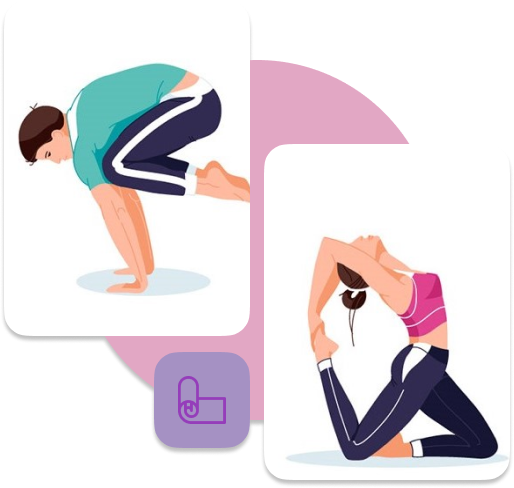
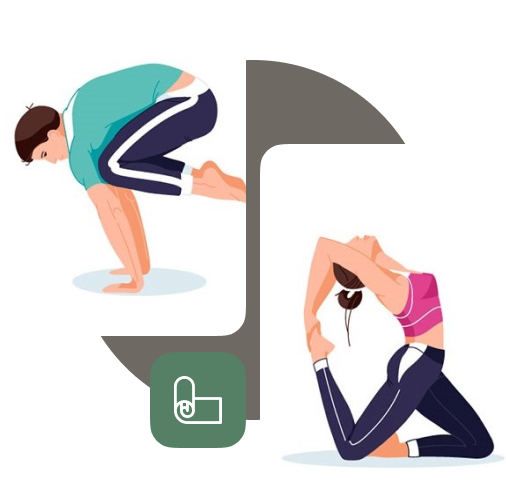
edited 4pm

diff --git a/index.html b/index.html
@@ -29,37 +29,40 @@
       <a href="" class="btn__secondary">CLASSES</a>
     </header>
 
-    <section id="hero">
-      <div class="container">
-        <div class="row">
-          <h4 class="h4">YOGA CLASSES</h4>
-          <h1 class="h1">Clear Mind & Refresh Your Body</h1>
-          <a href="" class="btn__yellow">VIEW CLASSES</a>
-        </div>
+      <section id="hero">
+        <div class="container d-flex">
+          <div class="row">
+            <h4 class="h4">YOGA CLASSES</h4>
+            <h1 class="h1">Clear Mind & Refresh Your Body</h1>
+            <a href="" class="btn__yellow">VIEW CLASSES</a>
+          </div>
+
+    </div>
+
         <div class="row">
           <div class="column column-lg-4 column-sm-12">
-            <div class="row hero__icon"><img src="./assets/img/hero_icon-1.png" alt="Healthy"></div>
+            <div class="row hero__icon icon"><img src="./assets/img/hero_icon-1.png" alt="Healthy"></div>
             <div class="row">Healthy</div>
             <div class="row">The sky</div>
           </div>
           <div class="column column-lg-4 column-sm-12">
-            <div class="row hero__icon"><img src="./assets/img/hero_icon-2.png" alt="Flexibility"></div>
+            <div class="row hero__icon icon"><img src="./assets/img/hero_icon-2.png" alt="Flexibility"></div>
             <div class="row">Flexibility</div>
             <div class="row">The sky</div>
           </div>
           <div class="column column-lg-4 column-sm-12">
-            <div class="row hero__icon"><img src="./assets/img/hero_icon-3.png" alt="Balance"></div>
+            <div class="row hero__icon icon"><img src="./assets/img/hero_icon-3.png" alt="Balance"></div>
             <div class="row">Balance</div>
             <div class="row">The sky</div>
           </div>
         </div>
       </div>
     </section>
-  </div>
+  
 
     <section id="about">
-      <div class="container"></div>
-      <div class="container">
+      <div class="container container-border">
+      <div class="container container-filled">
         <div class="row">
           <div class="column column-lg-6 column-sm-12"><img src="./assets/img/about_img-1.png" alt="about" class="about__img"></div>
           <div class="column column-lg-6 column-sm-12">
@@ -67,10 +70,11 @@
             <h2 class="h2">Get Perfect Body & Clear Your Mind</h2>
             <p class="p">The sky was cloudless and</p>
             <p class="p">It is a predicament</p>
-            <a href="" class="btn__purple">EXPLORE</a>
+            <a href="" class="btn__green">EXPLORE</a>
           </div>
         </div>
       </div>
+    </div>
     </section>
 
     <section id="classes">
@@ -143,7 +147,7 @@
             </div>
           </div>
           <div class="column column-lg-4 column-sm-12">
-            <a href="" class="btn__yellow">APPONTMENT</a>
+            <a href="" class="btn__green">APPONTMENT</a>
           </div>
         </div>
       </div>
@@ -158,7 +162,7 @@
             <h4 class="h4">MEDIA GALLERY</h4>
             <h2 class="h2">Watch Photos of Our Classes</h2>
             <p class="p">The sky was</p>
-            <a href="" class="btn__yellow">play button</a>
+            <a href="" class="btn__olive">play button</a>
             <span>Watch 3D Tour</span>
           </div>
         </div>
@@ -188,7 +192,7 @@
             <h4 class="h4">Vinayasa Yoga</h4>
           </div>
         </div>
-        <div class="row"><a href="" class="btn__clear">ALL VIDEO</a></div>
+        <div class="row"><a href="" class="btn__black-border">ALL VIDEO</a></div>
       </div>
     </section>
 
@@ -252,7 +256,7 @@
         </div>
       </div>
       <div class="column column-lg-4 column-sm-12">
-        <a href="" class="btn__yellow">CONTACT US</a>
+        <a href="" class="btn__nude">CONTACT US</a>
       </div>
     </div>
   </div>
@@ -289,7 +293,7 @@
             </div>
       </div>
     </div>
-    <div class="row"><a href="" class="btn__clear">LOAD MORE</a></div>
+    <div class="row"><a href="" class="btn__black-border">LOAD MORE</a></div>
   </div>
 </section>
 
@@ -327,7 +331,7 @@
         </div>
       </div>
     </div>
-    <div class="row"><a href="" class="btn__clear">SEE MORE</a></div>
+    <div class="row"><a href="" class="btn__black-border">SEE MORE</a></div>
   </div>
 </section>
 

diff --git a/assets/css/main.css b/assets/css/main.css
@@ -215,6 +215,12 @@ table {
   margin: 50px auto;
 }
 
+.d-flex {
+  display: -webkit-box;
+  display: -ms-flexbox;
+  display: flex;
+}
+
 .container {
   font-family: "David Libre", serif;
   max-width: 1170px;
@@ -446,31 +452,51 @@ i {
 .btn {
   color: #fff;
   padding: 8px;
-  border-radius: 8px;
+  border-radius: 32px;
   font-family: "David Libre", serif;
   font-weight: 700;
   margin: 30px 12px;
+  -webkit-box-pack: center;
+      -ms-flex-pack: center;
+          justify-content: center;
+  -webkit-box-align: center;
+      -ms-flex-align: center;
+          align-items: center;
 }
 
-.btn.btn__default {
-  background: #100720;
-  border: 2px solid #100720;
+.btn.btn__yellow {
+  background: #fce28b;
+  border: 2px solid #fce28b;
 }
 
 .btn.btn__icon-only {
   background: #fff;
   border: 2px solid #100720;
   border-radius: 50%;
+  color: #fff;
+  border: 2px solid #fce28b;
 }
 
-.btn.btn__primary {
-  background: #fff;
-  border: 2px solid #100720;
+.btn.btn__green {
+  background: #558065;
+  border: 2px solid #558065;
+  border: 2px solid #558065;
 }
 
-.btn.btn__secondary {
-  background: #fff;
+.btn.btn__olive {
+  background: #6c7154;
+  border: 2px solid #6c7154;
+}
+
+.btn.btn__nude {
+  background: #beb29f;
+  border: 2px solid #beb29f;
+}
+
+.btn.btn__black-border {
+  background: transparent;
   color: #100720;
+  border: 2px solid #100720;
 }
 
 .tags {
@@ -480,5 +506,47 @@ i {
 
 body {
   background-color: #beb29f;
+}
+
+.background-img {
+  height: 1080px;
+  width: 100%;
+  background-position: cover;
+  background-repeat: no-repeat;
+}
+
+section {
+  margin: 50px 0;
+  padding: 50px 0;
+}
+
+.container-border {
+  border: 3px solid #fff;
+  background: transparent;
+  border-radius: 32px;
+}
+
+.container-filled {
+  padding: 50px;
+  background: #fff;
+  border-radius: 32px;
+  zoom: -1.5;
+}
+
+.icon {
+  background: #6c7154;
+  width: 128px;
+  height: 128px;
+  -webkit-box-pack: center;
+      -ms-flex-pack: center;
+          justify-content: center;
+  -webkit-box-align: center;
+      -ms-flex-align: center;
+          align-items: center;
+  border-radius: 32px;
+}
+
+.icon img {
+  line-height: 64px;
 }
 /*# sourceMappingURL=main.css.map */

diff --git a/assets/sass/components/_buttons.scss b/assets/sass/components/_buttons.scss
@@ -11,31 +11,47 @@ i {
 .btn {
   color: $COLOR_WHITE;
   padding: 8px;
-  border-radius: 8px;
+  border-radius: 32px;
   font-family: $MAIN_FONT;
   font-weight: 700;
   margin: 30px 12px;
+  justify-content: center;
+  align-items: center;
 
   // button colors
-  &.btn__default {
-    background: $COLOR_TEXT;
-    border: 2px solid $COLOR_TEXT;
+  &.btn__yellow {
+    background: $COLOR_YELLOW;
+    border: 2px solid $COLOR_YELLOW;
   }
 
   &.btn__icon-only {
     background: $COLOR_WHITE;
     border: 2px solid $COLOR_TEXT;
     border-radius: 50%;
+    color: $COLOR_WHITE;
+    border: 2px solid $COLOR_YELLOW;
   }
 
-  &.btn__primary {
-    background: $COLOR_WHITE;
-    border: 2px solid $COLOR_TEXT;
+  &.btn__green {
+    background: $COLOR_GREEN;
+    border: 2px solid $COLOR_GREEN;
+    border: 2px solid $COLOR_GREEN;
   }
 
-  &.btn__secondary {
-    background: $COLOR_WHITE;
+  &.btn__olive {
+    background: $COLOR_OLIVE;
+    border: 2px solid $COLOR_OLIVE;
+  }
+
+  &.btn__nude {
+    background: $COLOR_NUDE;
+    border: 2px solid $COLOR_NUDE;
+  }
+
+  &.btn__black-border {
+    background: transparent;
     color: $COLOR_TEXT;
+    border: 2px solid $COLOR_TEXT;
   }
 }
 

diff --git a/assets/sass/components/_cover.scss b/assets/sass/components/_cover.scss
@@ -1,3 +1,41 @@
 body {
   background-color: $COLOR_NUDE;
 }
+
+.background-img {
+  height: 1080px;
+  width: 100%;
+  background-position: cover;
+  background-repeat: no-repeat;
+}
+
+section {
+  margin: 50px 0;
+  padding: 50px 0;
+}
+
+.container-border {
+  border: 3px solid $COLOR_WHITE;
+  background: transparent;
+  border-radius: 32px;
+}
+
+.container-filled {
+  padding: 50px;
+  background: $COLOR_WHITE;
+  border-radius: 32px;
+  zoom: -1.5;
+}
+
+.icon {
+  background: $COLOR_OLIVE;
+  width: 128px;
+  height: 128px;
+  justify-content: center;
+  align-items: center;
+  border-radius: 32px;
+}
+
+.icon img {
+  line-height: 64px;
+}

diff --git a/assets/sass/abstracts/_variables.scss b/assets/sass/abstracts/_variables.scss
@@ -6,6 +6,7 @@ $COLOR_NUDE: #beb29f;
 $COLOR_GREEN: #558065;
 $COLOR_OLIVE: #6c7154;
 $COLOR_BROWN: #6e6a63;
+$COLOR_YELLOW: #fce28b;
 
 // FONT
 $MAIN_FONT: "David Libre", serif;

diff --git a/assets/sass/base/_utility.scss b/assets/sass/base/_utility.scss
@@ -1,3 +1,7 @@
 .m-50 {
   margin: 50px auto;
 }
+
+.d-flex {
+  display: flex;
+}
